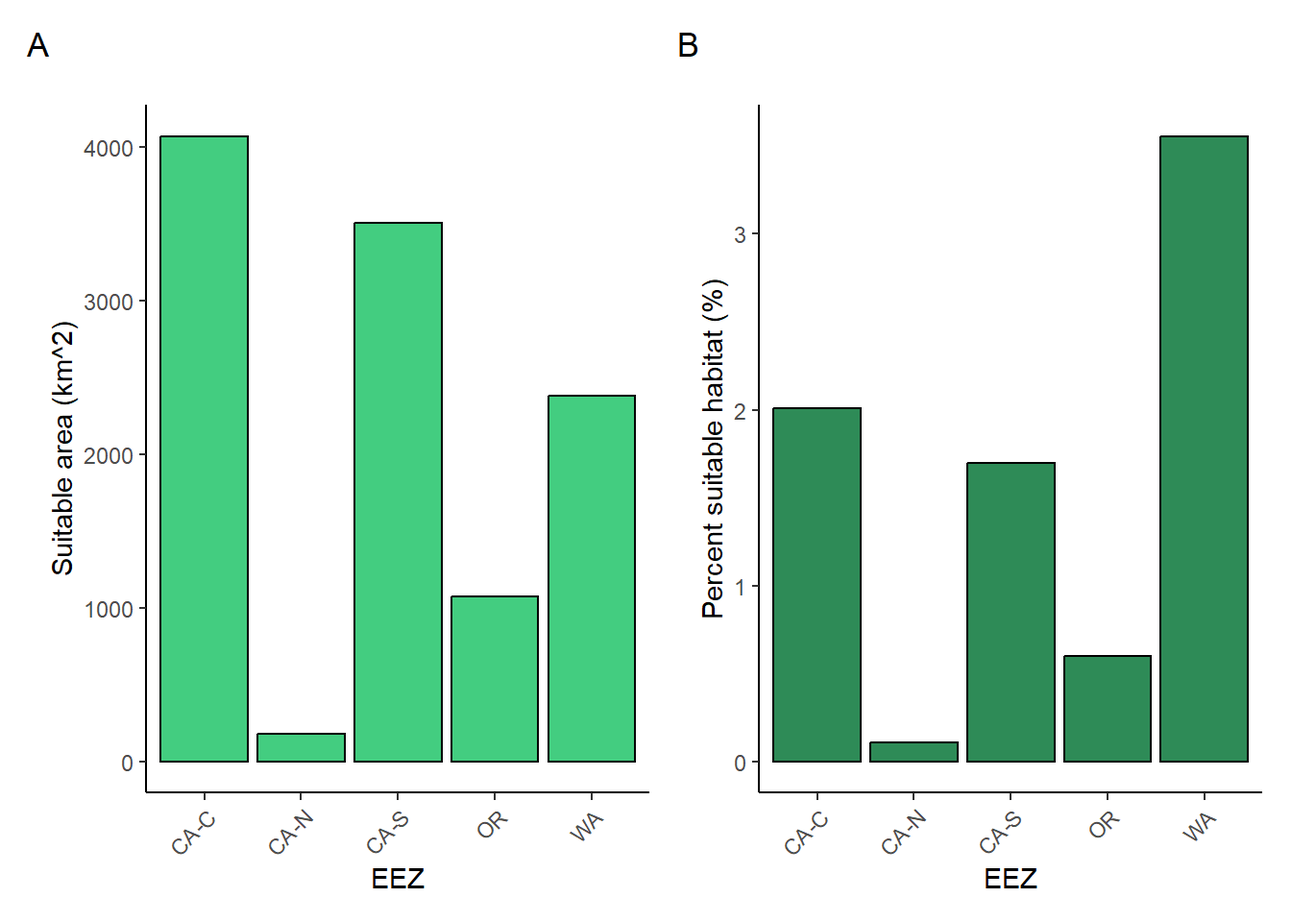
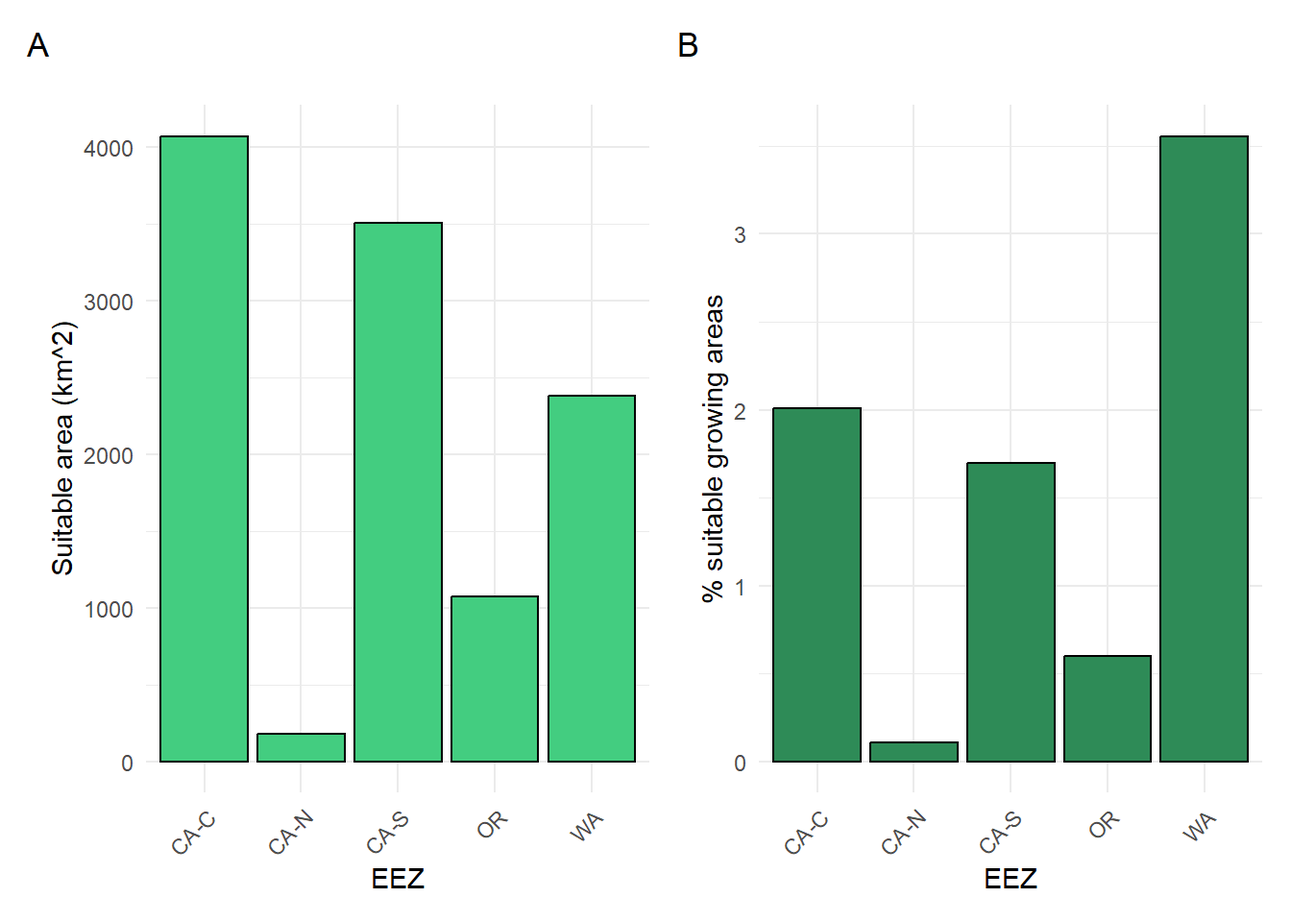
Final commit!

Changed region(s): [[0.5312, 0.3125, 0.5625, 0.6875]]

diff --git a/HW4.html b/HW4.html
@@ -7,7 +7,7 @@
 <meta name="viewport" content="width=device-width, initial-scale=1.0, user-scalable=yes">
 
 <meta name="author" content="Maxwell Pepperdine">
-<meta name="dcterms.date" content="2024-11-26">
+<meta name="dcterms.date" content="2024-11-27">
 
 <title>EDS 223 Assignment #4</title>
 <style>
@@ -113,7 +113,7 @@ pre > code.sourceCode > span > a:first-child::before { text-decoration: underlin
     <div>
     <div class="quarto-title-meta-heading">Published</div>
     <div class="quarto-title-meta-contents">
-      <p class="date">November 26, 2024</p>
+      <p class="date">November 27, 2024</p>
     </div>
   </div>
   
@@ -142,7 +142,7 @@ pre > code.sourceCode > span > a:first-child::before { text-decoration: underlin
 <section id="background" class="level2">
 <h2 class="anchored" data-anchor-id="background">Background</h2>
 <p>With an ever growing human population, marine aquaculture has the potential to play a significant role global food supply, and is a more sustainable option than land-based meat production (Hall et al., 2011). A study that mapped the global potential for marine aquaculture based on multiple constraints (e.g., ship traffic, dissolved oxygen, bottom depth) found that global seafood demand could be met using less than 0.015% of the global ocean area (Gentry et al., 2017).</p>
-<p>This analysis aims to determine which Exclusive Economic Zones (EEZ) on the West Coast of the US are best suited to develop marine aquaculture for several species of oysters and Pacific littleneck clams (<em>Leukoma staminea</em>),two of the most common species farmed in marine aquaculture on the West Coast. Suitable locations were determined based on range of suitable sea surface temperature (SST) and depth values for each species listed below. Oyster conditions were provided in the assignment description, and suitable temperatures and depths for the littleneck clam were selected based on Shaw (1986) and Harbo (1997).</p>
+<p>This analysis aims to determine which Exclusive Economic Zones (EEZ) on the West Coast of the US are best suited to develop marine aquaculture for several species of oysters and Pacific littleneck clams (<em>Leukoma staminea</em>),two of the most common species farmed in marine aquaculture on the West Coast. Suitable growing locations were determined based on range of suitable sea surface temperature (SST) and depth values for each species listed below. Oyster conditions were provided in the assignment description, and suitable temperatures and depths for the littleneck clam were selected based on Shaw (1986) and Harbo (1997). Suitable growing areas for oysters were found first, and then the workflow was made generalizable by transforming into a function that could be used to find suitable growing areas for any marine aquaculture species on the West Coast based on ocean depth and SST.</p>
 <p>Suitable growing conditions for oysters:</p>
 <ul>
 <li><code>sea surface temperature</code>: 11-30°C</li>
@@ -178,15 +178,20 @@ pre > code.sourceCode > span > a:first-child::before { text-decoration: underlin
 <p>Maritime boundaries were designated using Exclusive Economic Zones (EEZs) off of the west coast of US from <a href="https://www.marineregions.org/eez.php">Marine Regions</a>.</p>
 <p>Data file: <code>wc_regions_clean.shp</code></p>
 </section>
+<section id="u.s.-states-territories" class="level4">
+<h4 class="anchored" data-anchor-id="u.s.-states-territories">U.S. states &amp; territories</h4>
+<p>Boundaries for all U.S. states and territories, included for context in the maps, were sourced from <a href="https://www.weather.gov/gis/USStates">NOAA’s national GIS program</a>.</p>
+<p>Data file: <code>s_05mr24.shp</code></p>
+</section>
 </section>
 <section id="analysis" class="level2">
 <h2 class="anchored" data-anchor-id="analysis">Analysis</h2>
-<p><em>Pseudo code:</em></p>
+<p><em>Pseudo code/outline:</em></p>
 <ol type="1">
-<li><p>Prepare data. Load all necessary data and make sure they’re all in the same CRS. Combine the SST data into a raster stack. If not, transform everything to WGS 84 (<code>EPSG:4326</code>).</p></li>
-<li><p>Process data. Find the mean SST from 2008-2012, convert it from Kelvin to Celsius, resample the bathy raster to match the resolution, extent, and position of the SST raster, and crop the depth raster to match the extent of the SST raster.</p></li>
-<li><p>Find suitable locations. Determine which locations meet the suitable growing conditions for oysters only before expanding the workflow to other species. To do this, reclassify the bathymetry and SST rasters to either 0 (unsuitable), or 1 (suitable). These rasters were then multiplied by eachother to isolate areas that meet suitable conditions for both depth and SST.</p></li>
-<li><p>Determine the most suitable EEZ. Calculate the amount of suitable area for each EEZ region to rank zones by priority.</p></li>
+<li><p>Prepare data. Load all necessary data, combine the SST data into a raster stack, and make sure they’re all in the same CRS. If not, transform everything to WGS 84 (<code>EPSG:4326</code>).</p></li>
+<li><p>Process data. Find the mean SST from 2008-2012, convert it from Kelvin to Celsius, resample the bathymetry raster to match the resolution, extent, and position of the SST raster, and crop the depth raster to match the extent of the SST raster.</p></li>
+<li><p>Find suitable locations. Determine which locations meet the suitable growing conditions for oysters only before expanding the workflow to other species. To do this, we first need to reclassify the bathymetry and SST rasters to either <code>NA</code> (unsuitable), or 1 (suitable). These rasters were then multiplied by each other to isolate areas that meet suitable conditions for both depth and SST.</p></li>
+<li><p>Determine the most suitable EEZ. Calculate the amount of suitable area for each EEZ region to rank zones by priority. To do this, rasterize the EEZ shapefile, mask it to the suitable locations, calculate the area of each cell in the raster, and sum the area of suitable locations in each EEZ. Lastly, join the area data back to the EEZ shapefile and make some visualizations.</p></li>
 <li><p>Create a reproducible workflow for other species. After finding locations with suitable growing conditions for oysters, this workflow was transformed into a function that could isolate suitable growing conditions for any marine aquaculture species on the West Coast based on ocean depth and SST. The function has the following characteristics:</p></li>
 </ol>
 <ul>
@@ -261,7 +266,7 @@ pre > code.sourceCode > span > a:first-child::before { text-decoration: underlin
 </section>
 <section id="process-data" class="level4">
 <h4 class="anchored" data-anchor-id="process-data">Process data</h4>
-<p>To prepare the data for the growing suitability analysis, we found the mean SST from 2008-2012, converted it from Kelvin to Celsius, resampled the bathy raster to match the resolution, extent, and position of the SST raster using the nearest neghbor method, and cropped the depth raster to match the extent of the SST raster.</p>
+<p>To prepare the data for the growing suitability analysis, we found the mean SST from 2008-2012, converted it from Kelvin to Celsius, resampled the bathymetry raster to match the resolution, extent, and position of the SST raster using the nearest neighbor method, and cropped the depth raster to match the extent of the SST raster.</p>
 <div class="cell">
 <details class="code-fold">
 <summary>Show the code</summary>
@@ -284,7 +289,7 @@ pre > code.sourceCode > span > a:first-child::before { text-decoration: underlin
 <span id="cb5-17"><a href="#cb5-17" aria-hidden="true" tabindex="-1"></a>                           <span class="at">method =</span> <span class="st">"near"</span>)</span>
 <span id="cb5-18"><a href="#cb5-18" aria-hidden="true" tabindex="-1"></a></span>
 <span id="cb5-19"><a href="#cb5-19" aria-hidden="true" tabindex="-1"></a></span>
-<span id="cb5-20"><a href="#cb5-20" aria-hidden="true" tabindex="-1"></a><span class="co"># crop the depth raster to match the extent of the SST raster </span></span>
+<span id="cb5-20"><a href="#cb5-20" aria-hidden="true" tabindex="-1"></a><span class="co"># crop &amp; mask the depth raster to match the extent of the SST raster </span></span>
 <span id="cb5-21"><a href="#cb5-21" aria-hidden="true" tabindex="-1"></a>bathy_crop <span class="ot">&lt;-</span> <span class="fu">crop</span>(bathy_resample, </span>
 <span id="cb5-22"><a href="#cb5-22" aria-hidden="true" tabindex="-1"></a>                   sst_mean_celsius, </span>
 <span id="cb5-23"><a href="#cb5-23" aria-hidden="true" tabindex="-1"></a>                   <span class="at">mask =</span> <span class="cn">TRUE</span>)</span></code><button title="Copy to Clipboard" class="code-copy-button"><i class="bi"></i></button></pre></div>
@@ -298,25 +303,25 @@ pre > code.sourceCode > span > a:first-child::before { text-decoration: underlin
 <summary>Show the code</summary>
 <div class="sourceCode cell-code" id="cb6"><pre class="sourceCode r code-with-copy"><code class="sourceCode r"><span id="cb6-1"><a href="#cb6-1" aria-hidden="true" tabindex="-1"></a><span class="co"># resolution </span></span>
 <span id="cb6-2"><a href="#cb6-2" aria-hidden="true" tabindex="-1"></a><span class="cf">if</span>(<span class="fu">all</span>(<span class="fu">res</span>(bathy_crop) <span class="sc">==</span> <span class="fu">res</span>(sst_mean_celsius))) {</span>
-<span id="cb6-3"><a href="#cb6-3" aria-hidden="true" tabindex="-1"></a>  <span class="fu">print</span>(<span class="st">"The bathy and SST have the same resolution."</span>)</span>
+<span id="cb6-3"><a href="#cb6-3" aria-hidden="true" tabindex="-1"></a>  <span class="fu">print</span>(<span class="st">"The bathy and SST data have the same resolution."</span>)</span>
 <span id="cb6-4"><a href="#cb6-4" aria-hidden="true" tabindex="-1"></a>} <span class="cf">else</span> {</span>
 <span id="cb6-5"><a href="#cb6-5" aria-hidden="true" tabindex="-1"></a>  <span class="fu">warning</span>(<span class="st">"STOP! Resolution does not match."</span>)</span>
 <span id="cb6-6"><a href="#cb6-6" aria-hidden="true" tabindex="-1"></a>}</span></code><button title="Copy to Clipboard" class="code-copy-button"><i class="bi"></i></button></pre></div>
 </details>
 <div class="cell-output cell-output-stdout">
-<pre><code>[1] "The bathy and SST have the same resolution."</code></pre>
+<pre><code>[1] "The bathy and SST data have the same resolution."</code></pre>
 </div>
 <details class="code-fold">
 <summary>Show the code</summary>
 <div class="sourceCode cell-code" id="cb8"><pre class="sourceCode r code-with-copy"><code class="sourceCode r"><span id="cb8-1"><a href="#cb8-1" aria-hidden="true" tabindex="-1"></a><span class="co"># extent</span></span>
 <span id="cb8-2"><a href="#cb8-2" aria-hidden="true" tabindex="-1"></a><span class="cf">if</span>(<span class="fu">ext</span>(bathy_crop) <span class="sc">==</span> <span class="fu">ext</span>(sst_mean_celsius)) {</span>
-<span id="cb8-3"><a href="#cb8-3" aria-hidden="true" tabindex="-1"></a>  <span class="fu">print</span>(<span class="st">"The bathy and SST raster have the same extent."</span>)</span>
+<span id="cb8-3"><a href="#cb8-3" aria-hidden="true" tabindex="-1"></a>  <span class="fu">print</span>(<span class="st">"The bathy and SST data have the same extent."</span>)</span>
 <span id="cb8-4"><a href="#cb8-4" aria-hidden="true" tabindex="-1"></a>} <span class="cf">else</span> {</span>
 <span id="cb8-5"><a href="#cb8-5" aria-hidden="true" tabindex="-1"></a>  <span class="fu">warning</span>(<span class="st">"STOP! The bathy and SST raster do not have the same extent."</span>)</span>
 <span id="cb8-6"><a href="#cb8-6" aria-hidden="true" tabindex="-1"></a>}</span></code><button title="Copy to Clipboard" class="code-copy-button"><i class="bi"></i></button></pre></div>
 </details>
 <div class="cell-output cell-output-stdout">
-<pre><code>[1] "The bathy and SST raster have the same extent."</code></pre>
+<pre><code>[1] "The bathy and SST data have the same extent."</code></pre>
 </div>
 <details class="code-fold">
 <summary>Show the code</summary>
@@ -417,7 +422,7 @@ Figure&nbsp;2: Sea surface temperature (SST) (°C) data for the West Coast of th
 <li><code>sea surface temperature</code>: 11-30°C</li>
 <li><code>depth</code>: 0-70 meters below sea level</li>
 </ul>
-<p>To find suitable locations for oysters, we reclassified the SST and depth data into locations that meet the suitable growing conditions for oysters. Suitable areas we defined as 1, and unsuitable areas were assigned NA values. We then used map algebra to multiply the reclassified rasters together to find locations that meet the suitable growing conditions for both depth and SST. If either of these environmental variables’ suitable conditions were not met, the locations was assigned a value of NA and considered unsuitable.</p>
+<p>To find suitable locations for oysters, we reclassified the SST and depth data into locations that meet the suitable growing conditions for oysters. Suitable areas we defined as 1, and unsuitable areas were assigned <code>NA</code> values. We then used map algebra to multiply the reclassified rasters together to find locations that meet the suitable growing conditions for both depth and SST. If either of these environmental variables’ suitable conditions were not met, the location was assigned a value of NA and considered unsuitable.</p>
 <div class="cell">
 <details class="code-fold">
 <summary>Show the code</summary>
@@ -451,7 +456,7 @@ Figure&nbsp;2: Sea surface temperature (SST) (°C) data for the West Coast of th
 </section>
 <section id="determine-the-most-suitable-eez" class="level4">
 <h4 class="anchored" data-anchor-id="determine-the-most-suitable-eez">Determine the most suitable EEZ</h4>
-<p>To determine the most suitable EEZ for oysters, we calculated the total area of suitable growing locations in each EEZ region. We first rasterized the EEZ shapefile to then mask it to the suitable locations for oysters. We then calculated the area of each cell in the raster using the <code>terra::cellSize()</code> function and summed the area of suitable locations in each EEZ with <code>terra::zonal()</code>. Lastly, we joined the area data back to the EEZ shapefile by region key and calculated the percent of each EEZs total area that has suitable growing areas for oysters.</p>
+<p>To determine the most suitable EEZ for oysters, we calculated the total area of suitable growing locations in each EEZ region. We first rasterized the EEZ shapefile to mask it to the suitable locations for oysters. Then, we calculated the area of each cell in the raster using the <code>terra::cellSize()</code> function and summed the area of suitable locations in each EEZ with <code>terra::zonal()</code>. Lastly, we joined the area data back to the EEZ shapefile by <code>rgn</code> and calculated the percent of each EEZs total area that has suitable growing areas for oysters.</p>
 <div class="cell">
 <details class="code-fold">
 <summary>Show the code</summary>
@@ -461,18 +466,18 @@ Figure&nbsp;2: Sea surface temperature (SST) (°C) data for the West Coast of th
 <span id="cb15-4"><a href="#cb15-4" aria-hidden="true" tabindex="-1"></a>                         <span class="at">field =</span> <span class="st">"rgn"</span>)</span>
 <span id="cb15-5"><a href="#cb15-5" aria-hidden="true" tabindex="-1"></a><span class="co"># plot(wc_eez_rast) # QC</span></span>
 <span id="cb15-6"><a href="#cb15-6" aria-hidden="true" tabindex="-1"></a></span>
-<span id="cb15-7"><a href="#cb15-7" aria-hidden="true" tabindex="-1"></a><span class="co"># mask it to the suitable locations for oysters</span></span>
+<span id="cb15-7"><a href="#cb15-7" aria-hidden="true" tabindex="-1"></a><span class="co"># crop &amp; mask it to the suitable locations for oysters</span></span>
 <span id="cb15-8"><a href="#cb15-8" aria-hidden="true" tabindex="-1"></a>wc_eez_suitable <span class="ot">&lt;-</span> <span class="fu">crop</span>(wc_eez_rast, </span>
 <span id="cb15-9"><a href="#cb15-9" aria-hidden="true" tabindex="-1"></a>                        oyster_suitable, </span>
 <span id="cb15-10"><a href="#cb15-10" aria-hidden="true" tabindex="-1"></a>                        <span class="at">mask =</span> <span class="cn">TRUE</span>)</span>
 <span id="cb15-11"><a href="#cb15-11" aria-hidden="true" tabindex="-1"></a></span>
-<span id="cb15-12"><a href="#cb15-12" aria-hidden="true" tabindex="-1"></a><span class="co"># find the area covered by each cell in the raster</span></span>
+<span id="cb15-12"><a href="#cb15-12" aria-hidden="true" tabindex="-1"></a><span class="co"># find the area covered by each cell in the masked EEZ raster</span></span>
 <span id="cb15-13"><a href="#cb15-13" aria-hidden="true" tabindex="-1"></a>cell_area <span class="ot">&lt;-</span> <span class="fu">cellSize</span>(wc_eez_suitable, </span>
 <span id="cb15-14"><a href="#cb15-14" aria-hidden="true" tabindex="-1"></a>                      <span class="at">unit =</span> <span class="st">"km"</span>)</span>
 <span id="cb15-15"><a href="#cb15-15" aria-hidden="true" tabindex="-1"></a></span>
 <span id="cb15-16"><a href="#cb15-16" aria-hidden="true" tabindex="-1"></a><span class="co"># calculate the area of suitable locations for oysters in each EEZ</span></span>
 <span id="cb15-17"><a href="#cb15-17" aria-hidden="true" tabindex="-1"></a>suitable_area <span class="ot">&lt;-</span> <span class="fu">zonal</span>(cell_area, </span>
-<span id="cb15-18"><a href="#cb15-18" aria-hidden="true" tabindex="-1"></a>                       wc_eez_suitable, </span>
+<span id="cb15-18"><a href="#cb15-18" aria-hidden="true" tabindex="-1"></a>                       wc_eez_suitable, <span class="co"># define the zones to calc area in </span></span>
 <span id="cb15-19"><a href="#cb15-19" aria-hidden="true" tabindex="-1"></a>                       <span class="at">fun =</span> <span class="st">"sum"</span>, </span>
 <span id="cb15-20"><a href="#cb15-20" aria-hidden="true" tabindex="-1"></a>                       <span class="at">na.rm =</span> <span class="cn">TRUE</span>)</span>
 <span id="cb15-21"><a href="#cb15-21" aria-hidden="true" tabindex="-1"></a></span>
@@ -487,7 +492,7 @@ Figure&nbsp;2: Sea surface temperature (SST) (°C) data for the West Coast of th
 </section>
 <section id="visualize-the-results" class="level4">
 <h4 class="anchored" data-anchor-id="visualize-the-results">Visualize the results</h4>
-<p>To visualize the results, we made two figures: a map of EEZ regions colored by the amount of suitable area (km^2) for oysters, and two bar plots to show the total suitable area (km^2) and the percent of each EEZs total area that has suitable growing areas for oysters.</p>
+<p>To visualize the results, we made two figures: (1) a map of EEZ regions colored by the amount of suitable area (km^2) for oysters; (2) two bar plots to show the total suitable area (km^2) and the percent of each EEZs total area that has suitable growing areas for oysters.</p>
 <div class="cell">
 <details class="code-fold">
 <summary>Show the code</summary>
@@ -512,8 +517,8 @@ Figure&nbsp;2: Sea surface temperature (SST) (°C) data for the West Coast of th
 <span id="cb16-19"><a href="#cb16-19" aria-hidden="true" tabindex="-1"></a>                <span class="at">title =</span> <span class="st">"Suitable growing areas"</span>) <span class="sc">+</span></span>
 <span id="cb16-20"><a href="#cb16-20" aria-hidden="true" tabindex="-1"></a>  <span class="fu">tm_layout</span>(<span class="at">legend.outside =</span> <span class="cn">TRUE</span>, </span>
 <span id="cb16-21"><a href="#cb16-21" aria-hidden="true" tabindex="-1"></a>            <span class="at">frame =</span> <span class="cn">TRUE</span>, </span>
-<span id="cb16-22"><a href="#cb16-22" aria-hidden="true" tabindex="-1"></a>            <span class="at">main.title =</span> <span class="st">"Suitable area for oysters in West Coast EEZs"</span>, </span>
-<span id="cb16-23"><a href="#cb16-23" aria-hidden="true" tabindex="-1"></a>            <span class="at">main.title.size =</span> <span class="fl">1.5</span>)</span></code><button title="Copy to Clipboard" class="code-copy-button"><i class="bi"></i></button></pre></div>
+<span id="cb16-22"><a href="#cb16-22" aria-hidden="true" tabindex="-1"></a>            <span class="at">main.title =</span> <span class="st">"Suitable growing area for oysters in West Coast EEZs"</span>, </span>
+<span id="cb16-23"><a href="#cb16-23" aria-hidden="true" tabindex="-1"></a>            <span class="at">main.title.size =</span> <span class="fl">1.3</span>)</span></code><button title="Copy to Clipboard" class="code-copy-button"><i class="bi"></i></button></pre></div>
 </details>
 <div class="cell-output-display">
 <div id="fig-resultsmap" class="quarto-figure quarto-figure-center quarto-float anchored">
@@ -522,7 +527,7 @@ Figure&nbsp;2: Sea surface temperature (SST) (°C) data for the West Coast of th
 <img src="HW4_files/figure-html/fig-resultsmap-1.png" class="img-fluid figure-img" width="960">
 </div>
 <figcaption class="quarto-float-caption-bottom quarto-float-caption quarto-float-fig" id="fig-resultsmap-caption-0ceaefa1-69ba-4598-a22c-09a6ac19f8ca">
-Figure&nbsp;3: Exclusive Economic Zones (EEZ) on the West Coast of the US colored by the amount of suitable area for oysters in each zone (km^2). WA = Washington, OR = Oregon, CA-N = northern California, CA-C = central California, and CA-S = southern California. The black areas indicate the delineated suitable growing areas for oysters.
+Figure&nbsp;3: Exclusive Economic Zones (EEZ) on the West Coast of the US colored by the amount of suitable area for oysters in each zone (km^2). WA = Washington, OR = Oregon, CA-N = northern California, CA-C = central California, and CA-S = southern California. The black areas show the delineated suitable growing areas for oysters that were summed.
 </figcaption>
 </figure>
 </div>
@@ -540,7 +545,7 @@ Figure&nbsp;3: Exclusive Economic Zones (EEZ) on the West Coast of the US colore
 <span id="cb17-7"><a href="#cb17-7" aria-hidden="true" tabindex="-1"></a>  <span class="fu">labs</span>(<span class="at">title =</span> <span class="st">" "</span>, </span>
 <span id="cb17-8"><a href="#cb17-8" aria-hidden="true" tabindex="-1"></a>       <span class="at">x =</span> <span class="st">"EEZ"</span>, </span>
 <span id="cb17-9"><a href="#cb17-9" aria-hidden="true" tabindex="-1"></a>       <span class="at">y =</span> <span class="st">"Suitable area (km^2)"</span>) <span class="sc">+</span> </span>
-<span id="cb17-10"><a href="#cb17-10" aria-hidden="true" tabindex="-1"></a>  <span class="fu">theme_classic</span>() <span class="sc">+</span> </span>
+<span id="cb17-10"><a href="#cb17-10" aria-hidden="true" tabindex="-1"></a>  <span class="fu">theme_minimal</span>() <span class="sc">+</span> </span>
 <span id="cb17-11"><a href="#cb17-11" aria-hidden="true" tabindex="-1"></a>  <span class="fu">theme</span>(<span class="at">axis.text.x =</span> <span class="fu">element_text</span>(<span class="at">angle =</span> <span class="dv">45</span>, </span>
 <span id="cb17-12"><a href="#cb17-12" aria-hidden="true" tabindex="-1"></a>                                   <span class="at">hjust =</span> <span class="dv">1</span>))</span>
 <span id="cb17-13"><a href="#cb17-13" aria-hidden="true" tabindex="-1"></a><span class="co">#plot1</span></span>
@@ -553,8 +558,8 @@ Figure&nbsp;3: Exclusive Economic Zones (EEZ) on the West Coast of the US colore
 <span id="cb17-20"><a href="#cb17-20" aria-hidden="true" tabindex="-1"></a>           <span class="at">col =</span> <span class="st">"black"</span>) <span class="sc">+</span> </span>
 <span id="cb17-21"><a href="#cb17-21" aria-hidden="true" tabindex="-1"></a>  <span class="fu">labs</span>(<span class="at">title =</span> <span class="st">" "</span>, </span>
 <span id="cb17-22"><a href="#cb17-22" aria-hidden="true" tabindex="-1"></a>       <span class="at">x =</span> <span class="st">"EEZ"</span>, </span>
-<span id="cb17-23"><a href="#cb17-23" aria-hidden="true" tabindex="-1"></a>       <span class="at">y =</span> <span class="st">"Percent suitable habitat (%)"</span>) <span class="sc">+</span> </span>
-<span id="cb17-24"><a href="#cb17-24" aria-hidden="true" tabindex="-1"></a>  <span class="fu">theme_classic</span>() <span class="sc">+</span> </span>
+<span id="cb17-23"><a href="#cb17-23" aria-hidden="true" tabindex="-1"></a>       <span class="at">y =</span> <span class="st">"% suitable growing areas"</span>) <span class="sc">+</span> </span>
+<span id="cb17-24"><a href="#cb17-24" aria-hidden="true" tabindex="-1"></a>  <span class="fu">theme_minimal</span>() <span class="sc">+</span> </span>
 <span id="cb17-25"><a href="#cb17-25" aria-hidden="true" tabindex="-1"></a>  <span class="fu">theme</span>(<span class="at">axis.text.x =</span> <span class="fu">element_text</span>(<span class="at">angle =</span> <span class="dv">45</span>, </span>
 <span id="cb17-26"><a href="#cb17-26" aria-hidden="true" tabindex="-1"></a>                                   <span class="at">hjust =</span> <span class="dv">1</span>))</span>
 <span id="cb17-27"><a href="#cb17-27" aria-hidden="true" tabindex="-1"></a><span class="co">#plot2</span></span>
@@ -570,7 +575,7 @@ Figure&nbsp;3: Exclusive Economic Zones (EEZ) on the West Coast of the US colore
 <img src="HW4_files/figure-html/fig-resultsbar-1.png" class="img-fluid figure-img" width="672">
 </div>
 <figcaption class="quarto-float-caption-bottom quarto-float-caption quarto-float-fig" id="fig-resultsbar-caption-0ceaefa1-69ba-4598-a22c-09a6ac19f8ca">
-Figure&nbsp;4: Amount of suitable area for oysters in each Exclusive Economic Zone (EEZ) on the West Coast of the US. (A) Shows the total suitable area in km^2, and (B) shows the percent of each EEZs total area that has suitable growing areas for oysters. WA = Washington, OR = Oregon, CA-N = northern California, CA-C = central California, and CA-S = southern California
+Figure&nbsp;4: Amount of suitable area for oysters in each Exclusive Economic Zone (EEZ) on the West Coast of the US. (A) Shows the total suitable area in km^2, and (B) shows the percent of each EEZs total area that has suitable growing areas for oysters. WA = Washington, OR = Oregon, CA-N = northern California, CA-C = central California, and CA-S = southern California.
 </figcaption>
 </figure>
 </div>
@@ -623,12 +628,12 @@ Figure&nbsp;4: Amount of suitable area for oysters in each Exclusive Economic Zo
 <span id="cb18-37"><a href="#cb18-37" aria-hidden="true" tabindex="-1"></a>                           suitable_locations, </span>
 <span id="cb18-38"><a href="#cb18-38" aria-hidden="true" tabindex="-1"></a>                           <span class="at">field =</span> <span class="st">"rgn"</span>)</span>
 <span id="cb18-39"><a href="#cb18-39" aria-hidden="true" tabindex="-1"></a>  </span>
-<span id="cb18-40"><a href="#cb18-40" aria-hidden="true" tabindex="-1"></a>  <span class="co"># mask it to the suitable locations</span></span>
+<span id="cb18-40"><a href="#cb18-40" aria-hidden="true" tabindex="-1"></a>  <span class="co"># crop &amp; mask it to the suitable locations</span></span>
 <span id="cb18-41"><a href="#cb18-41" aria-hidden="true" tabindex="-1"></a>  wc_eez_suitable <span class="ot">&lt;-</span> <span class="fu">crop</span>(wc_eez_rast, </span>
 <span id="cb18-42"><a href="#cb18-42" aria-hidden="true" tabindex="-1"></a>                          suitable_locations, </span>
 <span id="cb18-43"><a href="#cb18-43" aria-hidden="true" tabindex="-1"></a>                          <span class="at">mask =</span> <span class="cn">TRUE</span>)</span>
 <span id="cb18-44"><a href="#cb18-44" aria-hidden="true" tabindex="-1"></a>  </span>
-<span id="cb18-45"><a href="#cb18-45" aria-hidden="true" tabindex="-1"></a>  <span class="co"># find the area of each cell in the raster</span></span>
+<span id="cb18-45"><a href="#cb18-45" aria-hidden="true" tabindex="-1"></a>  <span class="co"># find the area of each cell in the masked EEZ raster</span></span>
 <span id="cb18-46"><a href="#cb18-46" aria-hidden="true" tabindex="-1"></a>  cell_area <span class="ot">&lt;-</span> <span class="fu">cellSize</span>(wc_eez_suitable, </span>
 <span id="cb18-47"><a href="#cb18-47" aria-hidden="true" tabindex="-1"></a>                        <span class="at">unit =</span> <span class="st">"km"</span>)</span>
 <span id="cb18-48"><a href="#cb18-48" aria-hidden="true" tabindex="-1"></a>  </span>
@@ -674,7 +679,7 @@ Figure&nbsp;4: Amount of suitable area for oysters in each Exclusive Economic Zo
 <span id="cb18-88"><a href="#cb18-88" aria-hidden="true" tabindex="-1"></a>              <span class="at">frame =</span> <span class="cn">TRUE</span>, </span>
 <span id="cb18-89"><a href="#cb18-89" aria-hidden="true" tabindex="-1"></a>              <span class="at">main.title =</span> <span class="fu">paste</span>(<span class="st">"Suitable growing area for"</span>, species, </span>
 <span id="cb18-90"><a href="#cb18-90" aria-hidden="true" tabindex="-1"></a>                            <span class="st">"in West Coast EEZs"</span>), </span>
-<span id="cb18-91"><a href="#cb18-91" aria-hidden="true" tabindex="-1"></a>              <span class="at">main.title.size =</span> <span class="fl">1.5</span>)</span>
+<span id="cb18-91"><a href="#cb18-91" aria-hidden="true" tabindex="-1"></a>              <span class="at">main.title.size =</span> <span class="fl">1.2</span>)</span>
 <span id="cb18-92"><a href="#cb18-92" aria-hidden="true" tabindex="-1"></a>  </span>
 <span id="cb18-93"><a href="#cb18-93" aria-hidden="true" tabindex="-1"></a>}</span></code><button title="Copy to Clipboard" class="code-copy-button"><i class="bi"></i></button></pre></div>
 </details>
@@ -684,11 +689,12 @@ Figure&nbsp;4: Amount of suitable area for oysters in each Exclusive Economic Zo
 <div class="cell">
 <details class="code-fold">
 <summary>Show the code</summary>
-<div class="sourceCode cell-code" id="cb19"><pre class="sourceCode r code-with-copy"><code class="sourceCode r"><span id="cb19-1"><a href="#cb19-1" aria-hidden="true" tabindex="-1"></a><span class="fu">ideal_growing_conditions</span>(<span class="at">species =</span> <span class="st">"Pacific littleneck clam"</span>, </span>
-<span id="cb19-2"><a href="#cb19-2" aria-hidden="true" tabindex="-1"></a>                         <span class="at">depth_min =</span> <span class="dv">0</span>, </span>
-<span id="cb19-3"><a href="#cb19-3" aria-hidden="true" tabindex="-1"></a>                         <span class="at">depth_max =</span> <span class="sc">-</span><span class="dv">46</span>, </span>
-<span id="cb19-4"><a href="#cb19-4" aria-hidden="true" tabindex="-1"></a>                         <span class="at">sst_min =</span> <span class="dv">0</span>, </span>
-<span id="cb19-5"><a href="#cb19-5" aria-hidden="true" tabindex="-1"></a>                         <span class="at">sst_max =</span> <span class="dv">25</span>)</span></code><button title="Copy to Clipboard" class="code-copy-button"><i class="bi"></i></button></pre></div>
+<div class="sourceCode cell-code" id="cb19"><pre class="sourceCode r code-with-copy"><code class="sourceCode r"><span id="cb19-1"><a href="#cb19-1" aria-hidden="true" tabindex="-1"></a><span class="co"># test the function with the Pacific littleneck clam's growing conditions</span></span>
+<span id="cb19-2"><a href="#cb19-2" aria-hidden="true" tabindex="-1"></a><span class="fu">ideal_growing_conditions</span>(<span class="at">species =</span> <span class="st">"Pacific littleneck clams"</span>, </span>
+<span id="cb19-3"><a href="#cb19-3" aria-hidden="true" tabindex="-1"></a>                         <span class="at">depth_min =</span> <span class="dv">0</span>, </span>
+<span id="cb19-4"><a href="#cb19-4" aria-hidden="true" tabindex="-1"></a>                         <span class="at">depth_max =</span> <span class="sc">-</span><span class="dv">46</span>, </span>
+<span id="cb19-5"><a href="#cb19-5" aria-hidden="true" tabindex="-1"></a>                         <span class="at">sst_min =</span> <span class="dv">0</span>, </span>
+<span id="cb19-6"><a href="#cb19-6" aria-hidden="true" tabindex="-1"></a>                         <span class="at">sst_max =</span> <span class="dv">25</span>)</span></code><button title="Copy to Clipboard" class="code-copy-button"><i class="bi"></i></button></pre></div>
 </details>
 <div class="cell-output-display">
 <div id="fig-clam" class="quarto-figure quarto-figure-center quarto-float anchored">
@@ -697,7 +703,7 @@ Figure&nbsp;4: Amount of suitable area for oysters in each Exclusive Economic Zo
 <img src="HW4_files/figure-html/fig-clam-1.png" class="img-fluid figure-img" width="960">
 </div>
 <figcaption class="quarto-float-caption-bottom quarto-float-caption quarto-float-fig" id="fig-clam-caption-0ceaefa1-69ba-4598-a22c-09a6ac19f8ca">
-Figure&nbsp;5: Amount of suitable area for the Pacific littleneck clam in each Exclusive Economic Zone (EEZ) on the West Coast of the US. (A) Shows the total suitable area in km^2, and (B) shows the percent of suitable habitat in each EEZ as a function of their total area.
+Figure&nbsp;5: Amount of suitable area for the Pacific littleneck clam in each Exclusive Economic Zone (EEZ) on the West Coast of the US. (A) Shows the total suitable area in km^2, and (B) shows the percent of each EEZ’s area that has suitable growing conditions.
 </figcaption>
 </figure>
 </div>
